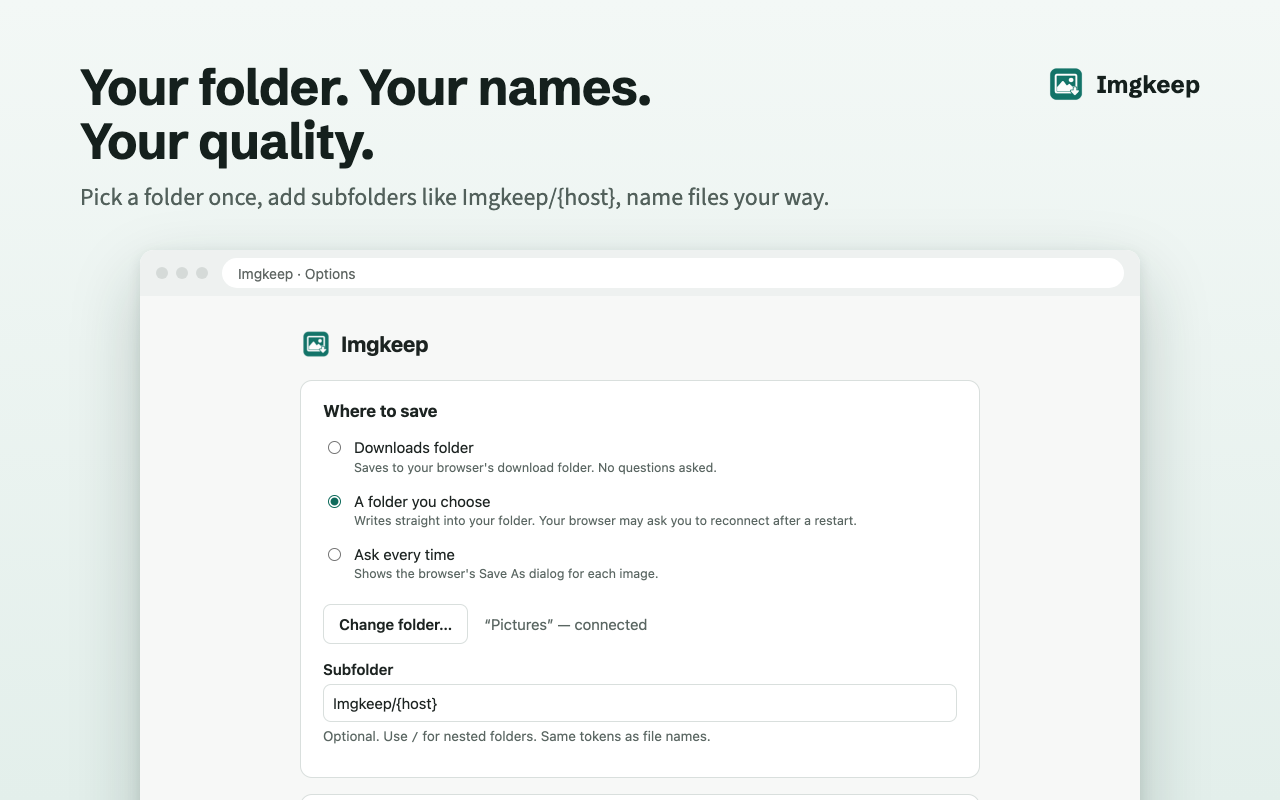
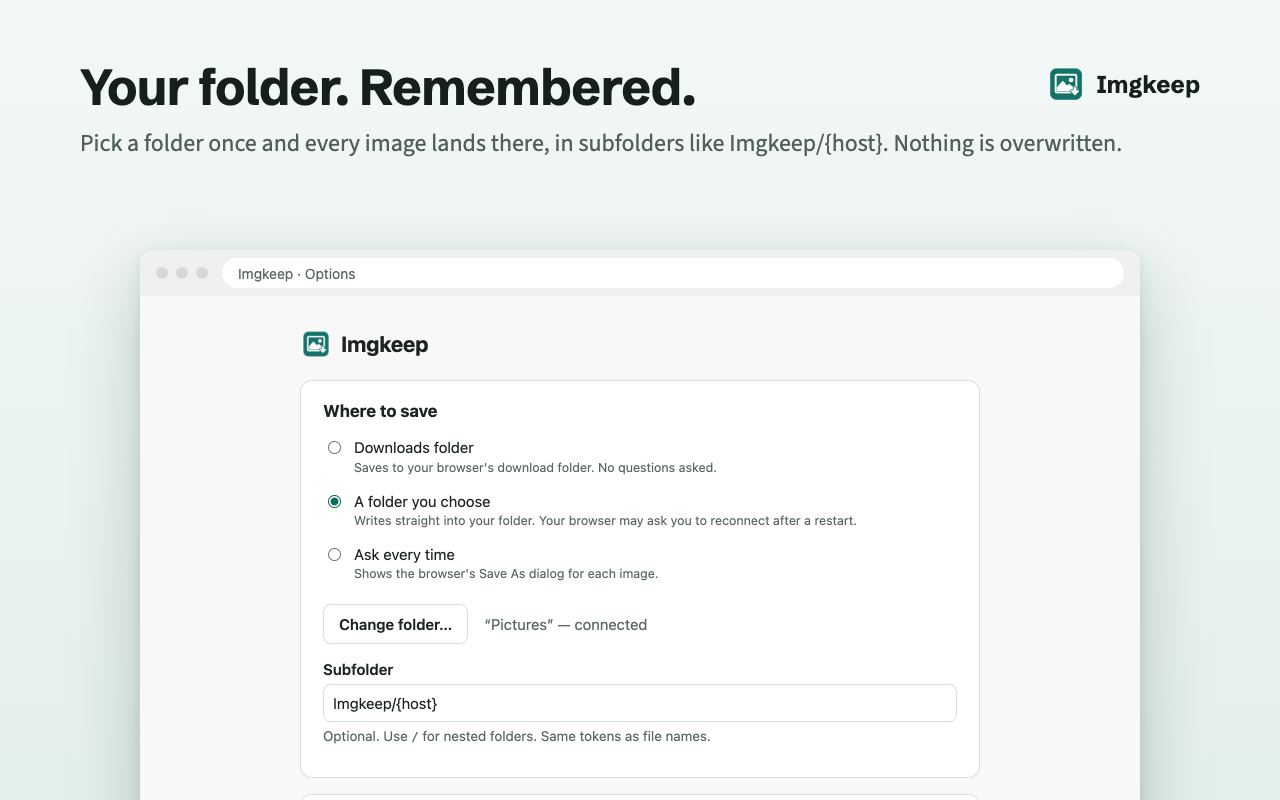
0.8.0 listing, from the outside review: distinct opening paragraph, features grouped, screenshot 2 headline matches its image
- Opening paragraph says what Imgkeep is and how it works, instead of
  repeating the summary.
- Features grouped: Formats / Size and quality / Folders and names (9 languages).
- Screenshot 2: "Your folder. Remembered." (it shows folder settings only).

Changed region(s): [[0.0625, 0.0625, 0.875, 0.2812]]

diff --git a/store/scenes.html b/store/scenes.html
@@ -156,8 +156,8 @@
 <!-- 2. Options page -->
 <section class="scene" id="scene-2">
   <div class="head">
-    <h1>Your folder. Your names.<br>Your quality.</h1>
-    <p class="sub">Pick a folder once, add subfolders like Imgkeep/{host}, name files your way.</p>
+    <h1>Your folder. Remembered.</h1>
+    <p class="sub">Pick a folder once and every image lands there, in subfolders like Imgkeep/{host}. Nothing is overwritten.</p>
   </div>
   <div class="logo"><img src="../extension/icons/icon128.png" alt="">Imgkeep</div>
   <div class="browser" style="left:140px; top:250px; width:1000px; height:620px;">

diff --git a/store/listing.md b/store/listing.md
@@ -18,7 +18,7 @@ Live: https://chromewebstore.google.com/detail/fkclfgbmjaafglfifenonfcahfdmajbl
 v7 (for 0.6.1): the "Free, with no limits" bullet now says Imgkeep asks for a rating once. v6 (for 0.6.0) added Copy as PNG, maximum width and More options. Paste as-is into the dashboard together with the 0.6.0 package. (v5, for 0.5.0, is the same without those three bullets and the last two menu items.)
 
 ```text
-Right-click any image and save it as PNG, JPG, WebP, GIF or PDF, or copy it as PNG. Imgkeep converts it on your computer and saves it where you want, every time.
+Imgkeep is a free, open-source browser extension. It adds one entry to your right-click menu: pick a format, and the image is converted on your computer and saved straight to your folder. Or copy it as PNG and paste it anywhere.
 
 Works where right-click doesn't: on sites like Instagram and Pinterest, photos sit under another layer, so a right-click can't reach them. Choose Imgkeep: Find image here, and Imgkeep finds the photo for you, at its largest size. Off until you turn it on.
 
@@ -26,17 +26,23 @@ Many sites now serve WebP and AVIF images that other apps won't open. Imgkeep tu
 
 Imgkeep: Save image as → PNG · JPG · WebP · GIF (keeps animation) · PDF · Original format · Copy as PNG · More options…
 
-WHAT IT DOES
+FORMATS
 
 • Files that open anywhere: standard JPG or PNG, and JPGs are saved as .jpg, not .jfif. SVG and data: images work too.
 • Keep the animation: animated WebP, AVIF and APNG become a GIF that keeps moving, with its timing and transparency. Animated GIFs are saved exactly as they are.
 • Save as PDF: a one-page PDF exactly the size of the image, for receipts, documents and sharing. Transparency is kept.
 • Copy as PNG: put the image on your clipboard as a real PNG, transparency kept, and paste it anywhere.
+
+SIZE AND QUALITY
+
 • Resize: set a maximum width in Options and bigger images are scaled down to fit, keeping their shape. Smaller ones are never enlarged.
 • More options: preview the result with its real size in pixels and kilobytes, then pick format, width, quality, background and file name for just this image.
+• Quality you control: JPG and WebP quality sliders, and the background colour for transparent images saved as JPG.
+
+FOLDERS AND NAMES
+
 • Saves to your folder: choose a folder once and every image goes there, or use Chrome's Downloads, or ask every time. Add subfolders like Imgkeep/{host}.
 • Your file names: build names from {name}, {host}, {date}, {time}, {w} and {h}, e.g. {name}-{w}x{h}.
-• Quality you control: JPG and WebP quality sliders, and the background colour for transparent images saved as JPG.
 • Never overwrites: if a file with the same name already exists, the new one gets a number like " (1)" instead of replacing it.
 
 BUILT TO BE TRUSTED

diff --git a/store/edge-listing.md b/store/edge-listing.md
@@ -29,7 +29,7 @@ Same package as the Chrome Web Store (`dist/imgkeep-0.4.0.zip`). Submit through 
 
 ### Description
 ```text
-Right-click any image and save it as PNG, JPG, WebP, GIF or PDF, or copy it as PNG. Imgkeep converts it on your computer and saves it where you want, every time.
+Imgkeep is a free, open-source browser extension. It adds one entry to your right-click menu: pick a format, and the image is converted on your computer and saved straight to your folder. Or copy it as PNG and paste it anywhere.
 
 Works where right-click doesn't: on sites like Instagram and Pinterest, photos sit under another layer, so a right-click can't reach them. Choose Imgkeep: Find image here, and Imgkeep finds the photo for you, at its largest size. Off until you turn it on.
 
@@ -37,17 +37,23 @@ Many sites now serve WebP and AVIF images that other apps won't open. Imgkeep tu
 
 Imgkeep: Save image as → PNG · JPG · WebP · GIF (keeps animation) · PDF · Original format · Copy as PNG · More options…
 
-WHAT IT DOES
+FORMATS
 
 • Files that open anywhere: standard JPG or PNG, and JPGs are saved as .jpg, not .jfif. SVG and data: images work too.
 • Keep the animation: animated WebP, AVIF and APNG become a GIF that keeps moving, with its timing and transparency. Animated GIFs are saved exactly as they are.
 • Save as PDF: a one-page PDF exactly the size of the image, for receipts, documents and sharing. Transparency is kept.
 • Copy as PNG: put the image on your clipboard as a real PNG, transparency kept, and paste it anywhere.
+
+SIZE AND QUALITY
+
 • Resize: set a maximum width in Options and bigger images are scaled down to fit, keeping their shape. Smaller ones are never enlarged.
 • More options: preview the result with its real size in pixels and kilobytes, then pick format, width, quality, background and file name for just this image.
+• Quality you control: JPG and WebP quality sliders, and the background colour for transparent images saved as JPG.
+
+FOLDERS AND NAMES
+
 • Saves to your folder: choose a folder once and every image goes there, or use Edge's Downloads, or ask every time. Add subfolders like Imgkeep/{host}.
 • Your file names: build names from {name}, {host}, {date}, {time}, {w} and {h}, e.g. {name}-{w}x{h}.
-• Quality you control: JPG and WebP quality sliders, and the background colour for transparent images saved as JPG.
 • Never overwrites: if a file with the same name already exists, the new one gets a number like " (1)" instead of replacing it.
 
 BUILT TO BE TRUSTED
